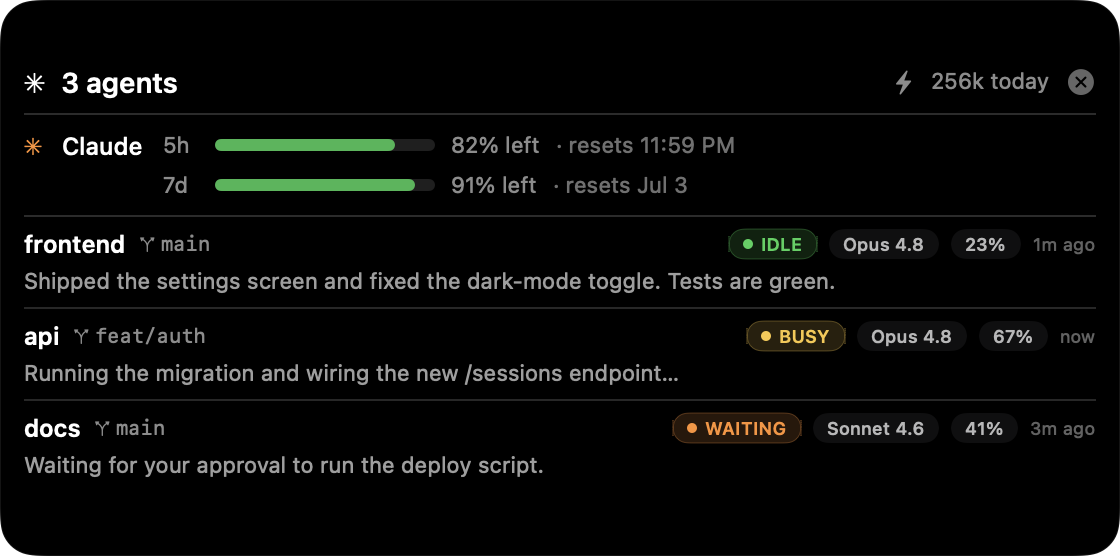
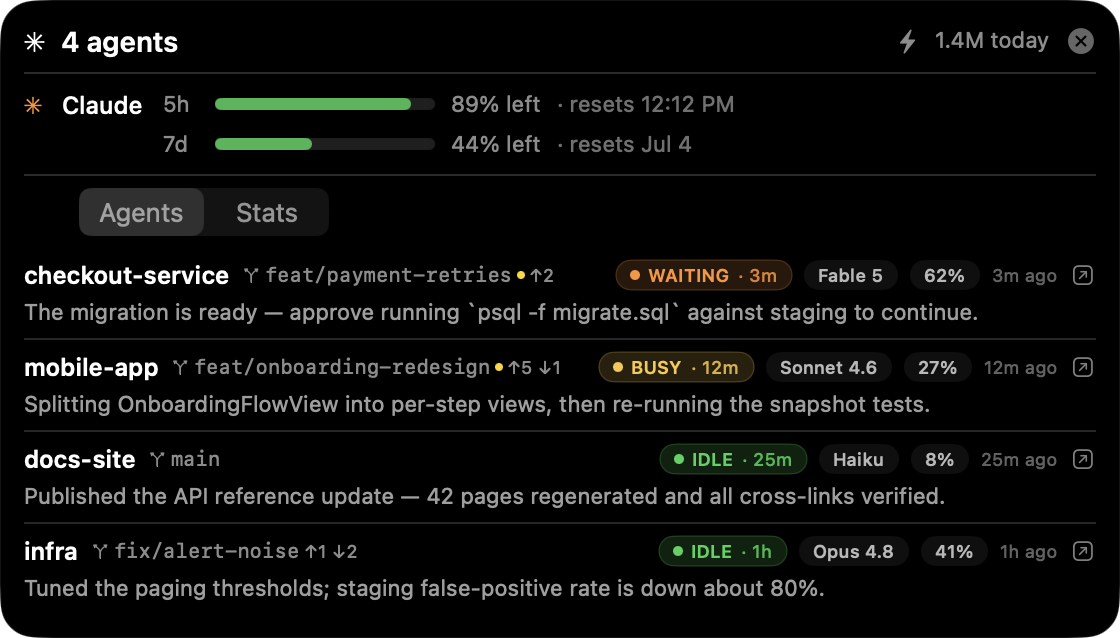
docs: describe Stats tab + Agents upgrades; demo-mode screenshots
README/USAGE now cover the tabbed panel, urgency sorting, status ages,
git ahead/behind, and the Stats tab; all screenshots recaptured under
HUBPLUS_DEMO=1 so nothing real leaks.

diff --git a/docs/USAGE.md b/docs/USAGE.md
@@ -22,22 +22,40 @@ Hover it to peek, click it to pin it open.
 
 ---
 
-## 2 · The expanded panel — the full view
+## 2 · The expanded panel — Agents
 
 ![Expanded panel](screenshots/expanded.png)
 
 - **Header** — how many agents are running and tokens used today. **✕** collapses it.
-- **Claude usage** — your **5h** and **7d** limit windows: % left and when each resets.
-- **One card per session**:
-  - the **project** (git repo) name and `⎇ branch`,
-  - a **status** capsule — `IDLE` / `BUSY` / `WAITING`,
+- **Claude usage** — your **5h** and **7d** limit windows: % left, when each resets,
+  and a 🔥 burn-rate estimate of how long until you hit the limit.
+- **Tabs** — switch between **Agents** (session cards) and **Stats** (usage analytics).
+- **One card per session**, sorted by urgency (waiting → error → busy → idle):
+  - the **project** (git repo) name and `⎇ branch`, with git ahead/behind (`↑2 ↓1`),
+  - a **status** capsule with how long the state has lasted — `BUSY · 12m`,
   - the **model**,
   - **context %** — how full that model's context window is (reddens near 100%),
-  - how long ago it last did something, and its **last message**.
+  - how long ago it last did something, and its **last message**,
+  - **↗** jumps to that agent's terminal window.
 
 ---
 
-## 3 · Dock it to any edge
+## 3 · The Stats tab — where your tokens go
+
+![Stats tab](screenshots/stats.png)
+
+All derived from your local transcripts — token counts are **real** input+output
+tokens (cache-inflated totals live in tooltips):
+
+- **Summary chips** — tokens today, last 7 days, and your top project.
+- **Limits · 48h** — how both limit windows moved over the last two days, with the
+  current "% used" readout.
+- **Tokens · 7 days** — a bar per day for the last week.
+- **By project · today** — proportional share bars with per-project session counts.
+
+---
+
+## 4 · Dock it to any edge
 
 ![Vertical pill on a side edge](screenshots/vertical.png)
 

diff --git a/README.md b/README.md
@@ -8,14 +8,23 @@ subscription usage — on **macOS** (a Dynamic-Island-style panel in the notch) 
 
 ![Hub+ expanded panel](docs/screenshots/expanded.png)
 
-**→ [Visual guide: how to use it](docs/USAGE.md)** · collapsed pill, expanded panel, and edge-docking.
+**→ [Visual guide: how to use it](docs/USAGE.md)** · collapsed pill, expanded panel, Stats tab, and edge-docking.
 
 ## Features
 
-- **Live session monitor** — every running Claude Code session at a glance: status
-  (idle / busy / waiting), model, context-window %, git repo + branch, and the last
-  message.
-- **Subscription usage** — the 5h and 7d limit windows with % left and reset times.
+- **Live session monitor (Agents tab)** — every running Claude Code session at a
+  glance: status (idle / busy / waiting), model, context-window %, git repo + branch
+  with ahead/behind (`↑2 ↓1`), and the last message. Sessions sort by urgency
+  (waiting → error → busy → idle) and the status capsule shows how long the state
+  has lasted (`BUSY · 12m`).
+- **Subscription usage** — the 5h and 7d limit windows with % left, reset times, and
+  a burn-rate (time-to-limit) projection.
+- **Stats tab** — summary chips (today / 7 days / top project), a 48h history of both
+  limit windows, per-day token bars for the last 7 days, and proportional per-project
+  share bars — all derived from your local transcripts, counting real (input+output)
+  tokens with the cache-inflated totals kept to tooltips.
+
+  ![Stats tab](docs/screenshots/stats.png)
 - **macOS** — a notch "island": a collapsed pill that expands on hover/click, drags
   to any screen edge (snaps + reorients), a `⌃⌥H` global hotkey, and native
   notifications (agent finished / needs you / limit reached).
@@ -71,7 +80,8 @@ dotnet build -c Release
 
 ## Status & roadmap
 
-- **macOS** — working: monitor, usage, notch island, drag-to-edge, hotkey, notifications.
+- **macOS** — working: monitor, usage, Stats tab, notch island, drag-to-edge, hotkey,
+  notifications.
 - **Windows** — v1: tray + floating panel (pill/animation/edge-snap/notifications not yet ported).
 - **Next** — Codex (and other agent) providers; launch + approve agents from the hub;
   fully-local usage-estimate mode.